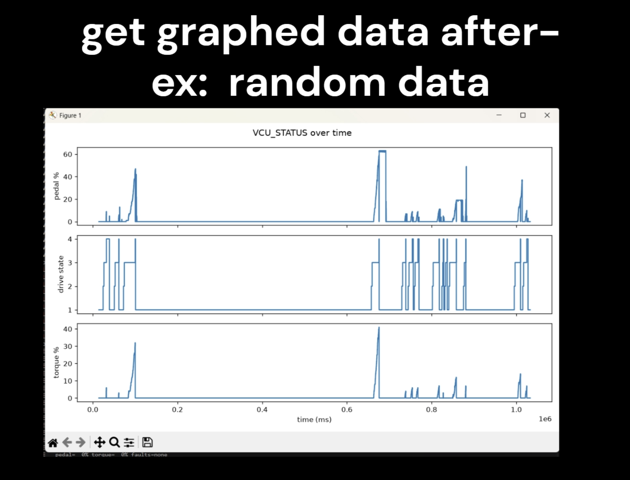
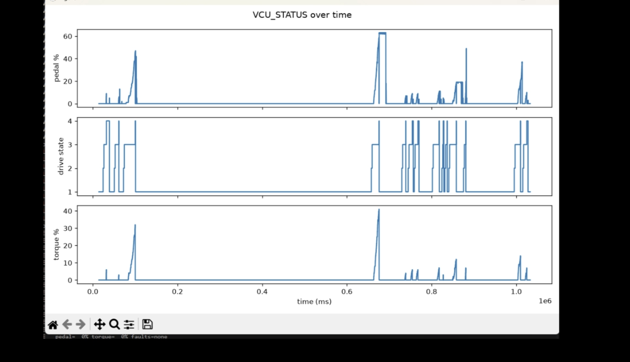
Crop plot title and isolate terminal text for legibility, add hardware overview photo

Changed region(s): [[0.0603, 0.0, 0.9048, 0.8812], [0.0603, 0.8812, 0.9048, 0.9724], [0.8746, 0.7901, 0.9048, 0.8204]]

diff --git a/README.md b/README.md
@@ -8,28 +8,36 @@ mode. Jumper wire from GPIO 5 (TX) to GPIO 4 (RX), no transceiver needed.
 
 [Watch the demo video](media/demo.mp4)
 
-**Normal operation:** armed and idle, then torque tracking the pedal from
-partial to full press.
+**Hardware setup:**
+
+<img src="media/idle-state.png" width="500">
+
+**Normal operation:** live decoder output, armed and idle, then torque
+tracking the pedal from partial to full press.
 
 <table>
 <tr>
-<td align="center" width="33%"><img src="media/idle-state.png" width="260"><br><sub>IDLE, no faults</sub></td>
-<td align="center" width="33%"><img src="media/drive-pedal-press.png" width="260"><br><sub>DRIVE, pedal pressed</sub></td>
-<td align="center" width="33%"><img src="media/drive-full-pedal.png" width="260"><br><sub>DRIVE, ~100% pedal</sub></td>
+<td align="center" width="33%"><img src="media/terminal-idle-state.png" width="280"><br><sub>IDLE, no faults</sub></td>
+<td align="center" width="33%"><img src="media/terminal-drive-pedal-press.png" width="280"><br><sub>DRIVE, pedal pressed</sub></td>
+<td align="center" width="33%"><img src="media/terminal-drive-full-pedal.png" width="280"><br><sub>DRIVE, ~100% pedal</sub></td>
 </tr>
 </table>
 
-**Fail-safe proof** (left): pulling the CAN loopback jumper mid-drive
-forces a fault and drops torque to zero, because the VCU only ever knew
-about the sensor through a wire that can be cut. **Instrumentation** (right):
-pedal / drive state / torque decoded and plotted from a captured session.
+**Fail-safe proof:** pulling the CAN loopback jumper mid-drive forces a
+fault and drops torque to zero, because the VCU only ever knew about the
+sensor through a wire that can be cut.
 
 <table>
 <tr>
-<td align="center" width="50%"><img src="media/fault-timeout.png" width="380"><br><sub>FAULT from disconnected jumper</sub></td>
-<td align="center" width="50%"><img src="media/plot-example.png" width="380"><br><sub>Decoded/plotted session</sub></td>
+<td align="center" width="50%"><img src="media/fault-timeout.png" width="330"><br><sub>Pulling the jumper</sub></td>
+<td align="center" width="50%"><img src="media/terminal-fault-timeout.png" width="330"><br><sub>Resulting FAULT state</sub></td>
 </tr>
 </table>
+
+**Instrumentation:** pedal / drive state / torque decoded and plotted from
+a captured session.
+
+<img src="media/plot-example.png" width="500">
 
 ## Features
 
